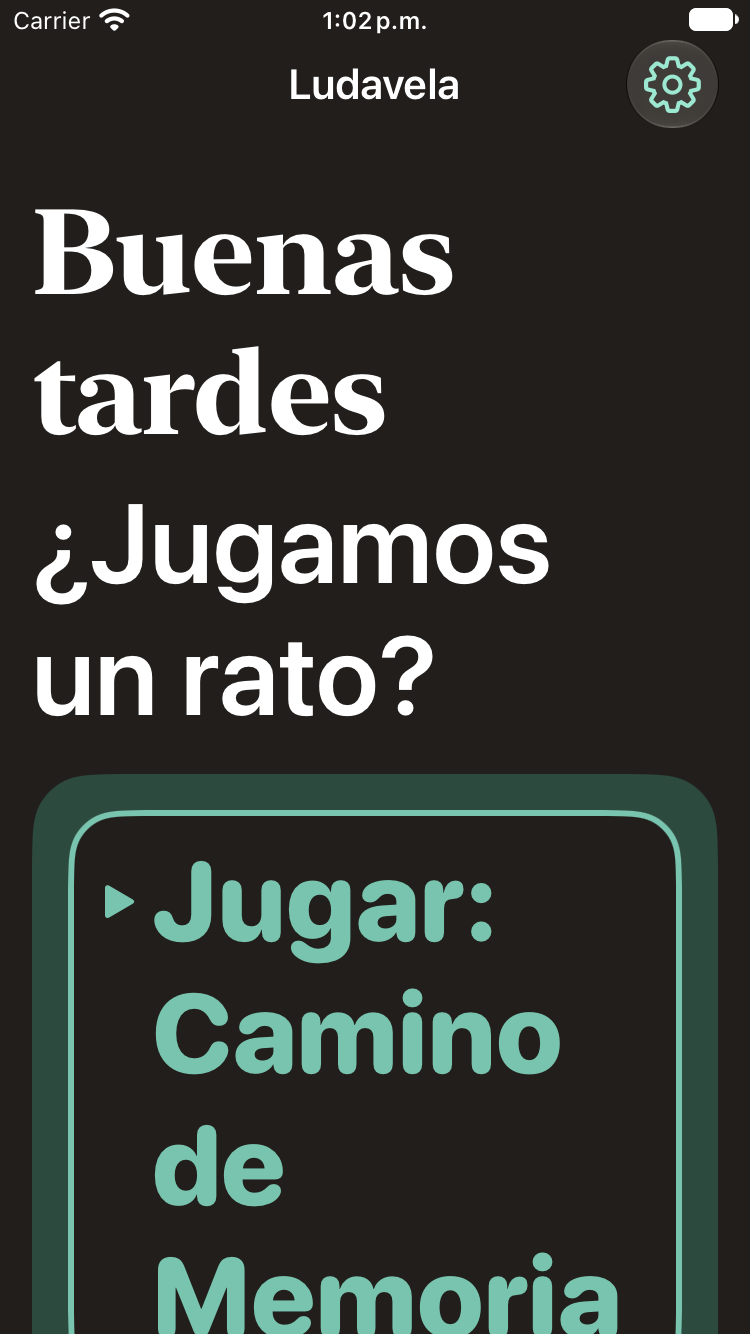
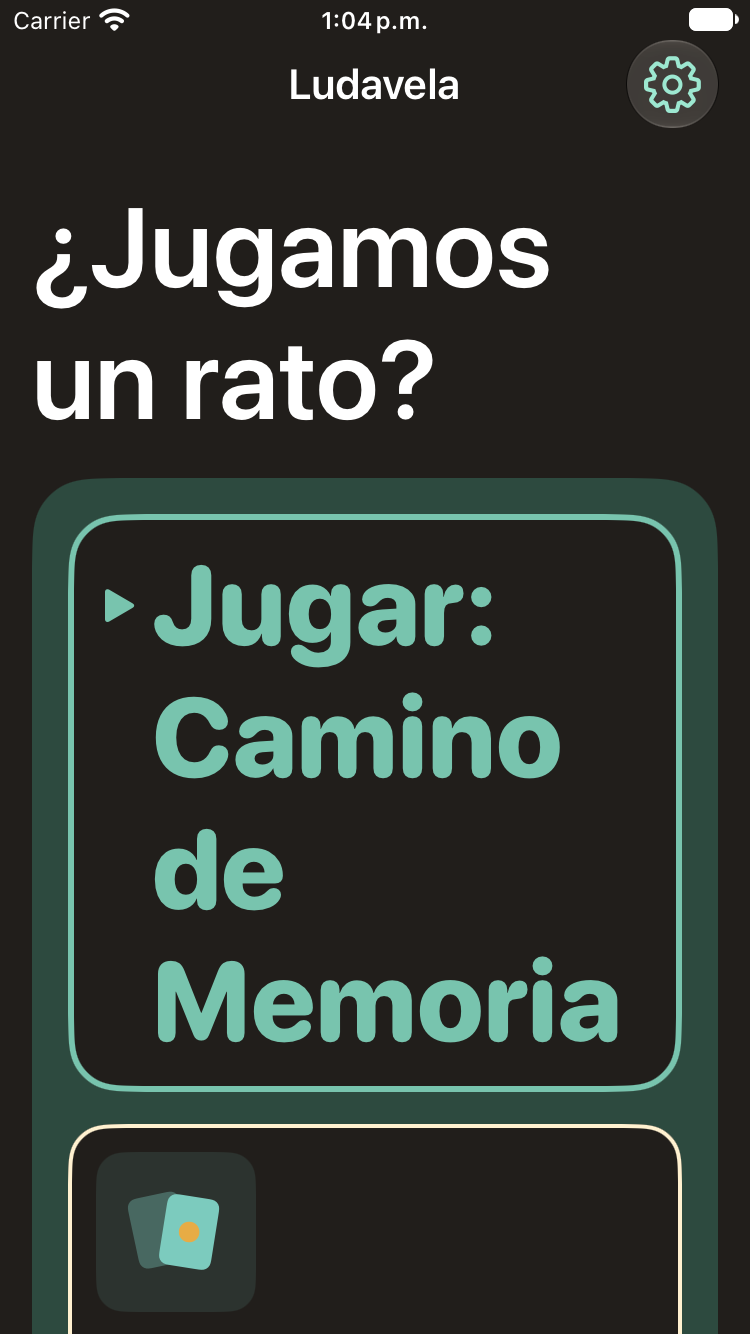
Keep next action visible at large text sizes

Changed region(s): [[0.0307, 0.1537, 0.9813, 1.0], [0.4293, 0.0, 0.4907, 0.0307]]

diff --git a/Ludavela/HomeView.swift b/Ludavela/HomeView.swift
@@ -151,16 +151,15 @@ struct HomeView: View {
 
     private var todayColumn: some View {
         VStack(alignment: .leading, spacing: 6) {
-            // At accessibility sizes the date, greeting and status fill the first screen, so the
-            // date goes and the play button rises above the cards (#529).
+            // Leave room for the next action at accessibility sizes (#529).
             if !typeSize.isAccessibilitySize {
                 Text(Date.now, format: .dateTime.weekday(.wide).day().month(.wide))
                     .font(.title3.weight(.semibold))
+                Text(AppLanguage.localized(Greeting.key(hour: Calendar.current.component(.hour, from: .now))))
+                    .font(.largeTitle.bold())
+                    .fontDesign(.serif)
+                    .accessibilityAddTraits(.isHeader)
             }
-            Text(AppLanguage.localized(Greeting.key(hour: Calendar.current.component(.hour, from: .now))))
-                .font(.largeTitle.bold())
-                .fontDesign(.serif)
-                .accessibilityAddTraits(.isHeader)
             Text(statusLine)
                 .font(.title2.weight(.semibold))
             if !today.games.isEmpty {

diff --git a/CHANGELOG.md b/CHANGELOG.md
@@ -13,7 +13,7 @@ Format: [Keep a Changelog](https://keepachangelog.com/en/1.1.0/). Newest first.
 
 ### Changed
 - **Quieter game cards (#580):** bigger pictures, one printed outline and names in dark ink on cream; catalogue names wrap without shrinking, while compact cards keep their existing fit. Completed games keep their checkmark, and large-text rows use the same simpler treatment.
-- **A clearer place to start (#581):** Home puts the next game and its play action first on a calm table, while keeping all recommended cards, their completion marks and the daily week record.
+- **A clearer place to start (#581):** Home puts the next game and its play action first on a calm table, while keeping all recommended cards, their completion marks and the daily week record. At accessibility text sizes, the greeting gives the action more room.
 - **Lotería (#573):** temporarily hidden from the game list and daily picks while its play is reconsidered; previous sessions remain saved.
 - **MenteViva is now Ludavela (#565):** the Home-screen name, app text, shared summaries, website and store copy use Ludavela in English and Spanish. Existing installs keep their app identity and saved progress.
 - **Lotería help and large text (#556):** tapping "Next card" a second time while the called card waits on the board points out its tile once and counts as one more try. VoiceOver hears the card's row and column; Reduce Motion shows a ring instead of a pulse. At accessibility text sizes, the called card stays above the scrolling board. EN + ES.

diff --git a/docs/issue-evidence/581/README.md b/docs/issue-evidence/581/README.md
@@ -3,6 +3,6 @@
 Captured on the isolated 375 pt iPhone simulator with the #580 base and #581 Home change. The three-game plan is a new day, with Memory Lane next.
 
 - `home-en-light-3-new.png`: English, light, default text. The next action and all three recommended cards are visible; this is a proposed arrangement awaiting owner review.
-- `home-es-dark-ax5-3-new.png`: Spanish, dark, maximum accessibility text. The action wraps and extends below the first viewport; the page scrolls. This requires further review, including the full label and navigation.
+- `home-es-dark-ax5-3-new.png`: Spanish, dark, maximum accessibility text. The full action fits in the first viewport after omitting the decorative greeting at accessibility sizes. The page scrolls to the recommended cards.
 
 Coverage remains incomplete: 2- and 5-game plans, partial and complete days, no available games, iPad, full scrolling at large text, and VoiceOver on physical hardware have not been verified here. These images do not certify the acceptance criteria.
